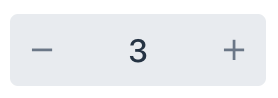
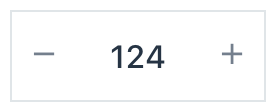
less complex and similar client-side & server-side examples

diff --git a/documentation/src/main/html/NumericFieldExtentionTutorial.html b/documentation/src/main/html/NumericFieldExtentionTutorial.html
@@ -1,4 +1,5 @@
 tutorial::creating-components/tutorial-extending-component.asciidoc
+
 <!--
 @license
 Copyright (c) 2017 Vaadin Ltd.
@@ -12,9 +13,18 @@ This program is available under Apache License Version 2.0, available at https:/
 <dom-module id="vaadin-number-field-template">
     <template>
         <style>
+
+            :host {
+                background-color: #FFFFFF !important;
+                border: solid 1px #E0E5E8 !important;
+                box-sizing: border-box;
+            }
+
             :host([readonly]) {
                 pointer-events: none;
             }
+
+            /* ... */
 
             [part="decrease-button"]::before {
                 content: "−";
@@ -24,28 +34,25 @@ This program is available under Apache License Version 2.0, available at https:/
                 content: "+";
             }
 
-            /* Hide the native arrow icons */
-            [part="value"]::-webkit-outer-spin-button,
-            [part="value"]::-webkit-inner-spin-button {
-                -webkit-appearance: none;
-                margin: 0;
+            /* ... */
+
+            [part="input-field"] {
+                background-color: transparent !important;
             }
 
             [part="value"] {
                 -moz-appearance: textfield;
+                text-align: center;
             }
+
         </style>
 
-        <div disabled$="[[!_allowed(-1, value, min, max)]]"
-             part="decrease-button"
-             on-click="_decreaseValue"
-             hidden$="[[!hasControls]]">
+        <div part="decrease-button"
+             on-click="_decreaseValue">
         </div>
 
-        <div disabled$="[[!_allowed(1, value, min, max)]]"
-             part="increase-button"
-             on-click="_increaseValue"
-             hidden$="[[!hasControls]]">
+        <div part="increase-button"
+             on-click="_increaseValue">
         </div>
     </template>
 
@@ -72,51 +79,31 @@ This program is available under Apache License Version 2.0, available at https:/
 
                 static get properties() {
                     return {
-                        /**
-                         * Set to true to display value increase/decrease controls.
-                         */
-                        hasControls: {
-                            type: Boolean,
-                            value: false,
-                            reflectToAttribue: true
-                        },
-
-                        /**
-                         * The minimum value of the field.
-                         */
-                        min: {
+                        decrementValue: {
                             type: Number,
+                            value: -1,
                             reflectToAttribue: true,
-                            observer: '_minChanged'
+                            observer: '_decrementChanged'
                         },
-
-                        /**
-                         * The maximum value of the field.
-                         */
-                        max: {
+                        incrementValue: {
                             type: Number,
+                            value: 1,
                             reflectToAttribue: true,
-                            observer: '_maxChanged'
-                        },
-
-                        /**
-                         * Specifies the allowed number intervals of the field.
-                         */
-                        step: {
-                            reflectToAttribue: true,
-                            observer: '_stepChanged',
-                            value: 1
+                            observer: '_incrementChanged'
                         }
 
+                        // Note: the value is stored in the TF's value property.
                     };
+
                 }
 
-                // ...
+                /* ... */
 
                 ready() {
                     super.ready();
-                    this.focusElement.type = 'number';
-                    this.focusElement.addEventListener('change', this.__onInputChange.bind(this));
+                    this.value = 0;
+                    this.setAttribute('prevent-invalid-input','');
+                    this.setAttribute('pattern','-?[0-9]*');
                 }
 
                 static get template() {
@@ -142,65 +129,21 @@ This program is available under Apache License Version 2.0, available at https:/
                 }
 
                 _decreaseValue() {
-                    this._allowed(-1) && this.__add(-1);
+                    this.__add(this.decrementValue);
                 }
 
                 _increaseValue() {
-                    this._allowed(1) && this.__add(1);
+                    this.__add(this.incrementValue);
                 }
 
-                __add(sign) {
-                    const incr = sign * (this.step || 1);
-                    // Behave like native number input adjusting to the next exact multiple of step.
-                    this.value = (incr + (incr * Math.floor((parseFloat(this.value || 0) / incr).toFixed(1)))).toFixed(this.__decimals);
+                __add(value) {
+                    this.value = parseInt(this.value, 10) + value;
                     this.dispatchEvent(new CustomEvent('change', {bubbles: true}));
-                    this.focusElement.focus();
-                }
-
-                _allowed(sign, value, min, max) {
-                    const incr = sign * (this.step || 1);
-                    return !this.disabled && (incr < 0
-                        ? this.min == null || this.value > this.min
-                        : this.max == null || this.value < this.max);
-                }
-
-                _minChanged() {
-                    this.focusElement.min = this.min;
-                }
-
-                _maxChanged() {
-                    this.focusElement.max = this.max;
                 }
 
                 _valueChanged(newVal, oldVal) {
-                    // native input does not accept certain values, and also converts
-                    // from number to string, so we need synchronize value
                     this.value = this.focusElement.value;
                     super._valueChanged(this.value, oldVal);
-                }
-
-                __onInputChange() {
-                    this.checkValidity() && this.__adjustDecimals();
-                }
-
-                __adjustDecimals() {
-                    // when step is not an integer, adjust decimals.
-                    this.focusElement.value && (this.value = parseFloat(this.focusElement.value).toFixed(this.__decimals));
-                }
-
-                _stepChanged(step) {
-                    this.focusElement.step = step;
-                    // Compute number of dedimals to display in input based on provided step
-                    this.__decimals = String(step).replace(/^\d*\.?(.*)?$/, '$1').length;
-                    this.__adjustDecimals();
-                }
-
-                checkValidity() {
-                    // text-field mixin does not check against `min` and `max`
-                    if (this.min !== undefined || this.max !== undefined) {
-                        this.invalid = !this.focusElement.checkValidity();
-                    }
-                    return super.checkValidity();
                 }
             }
 
